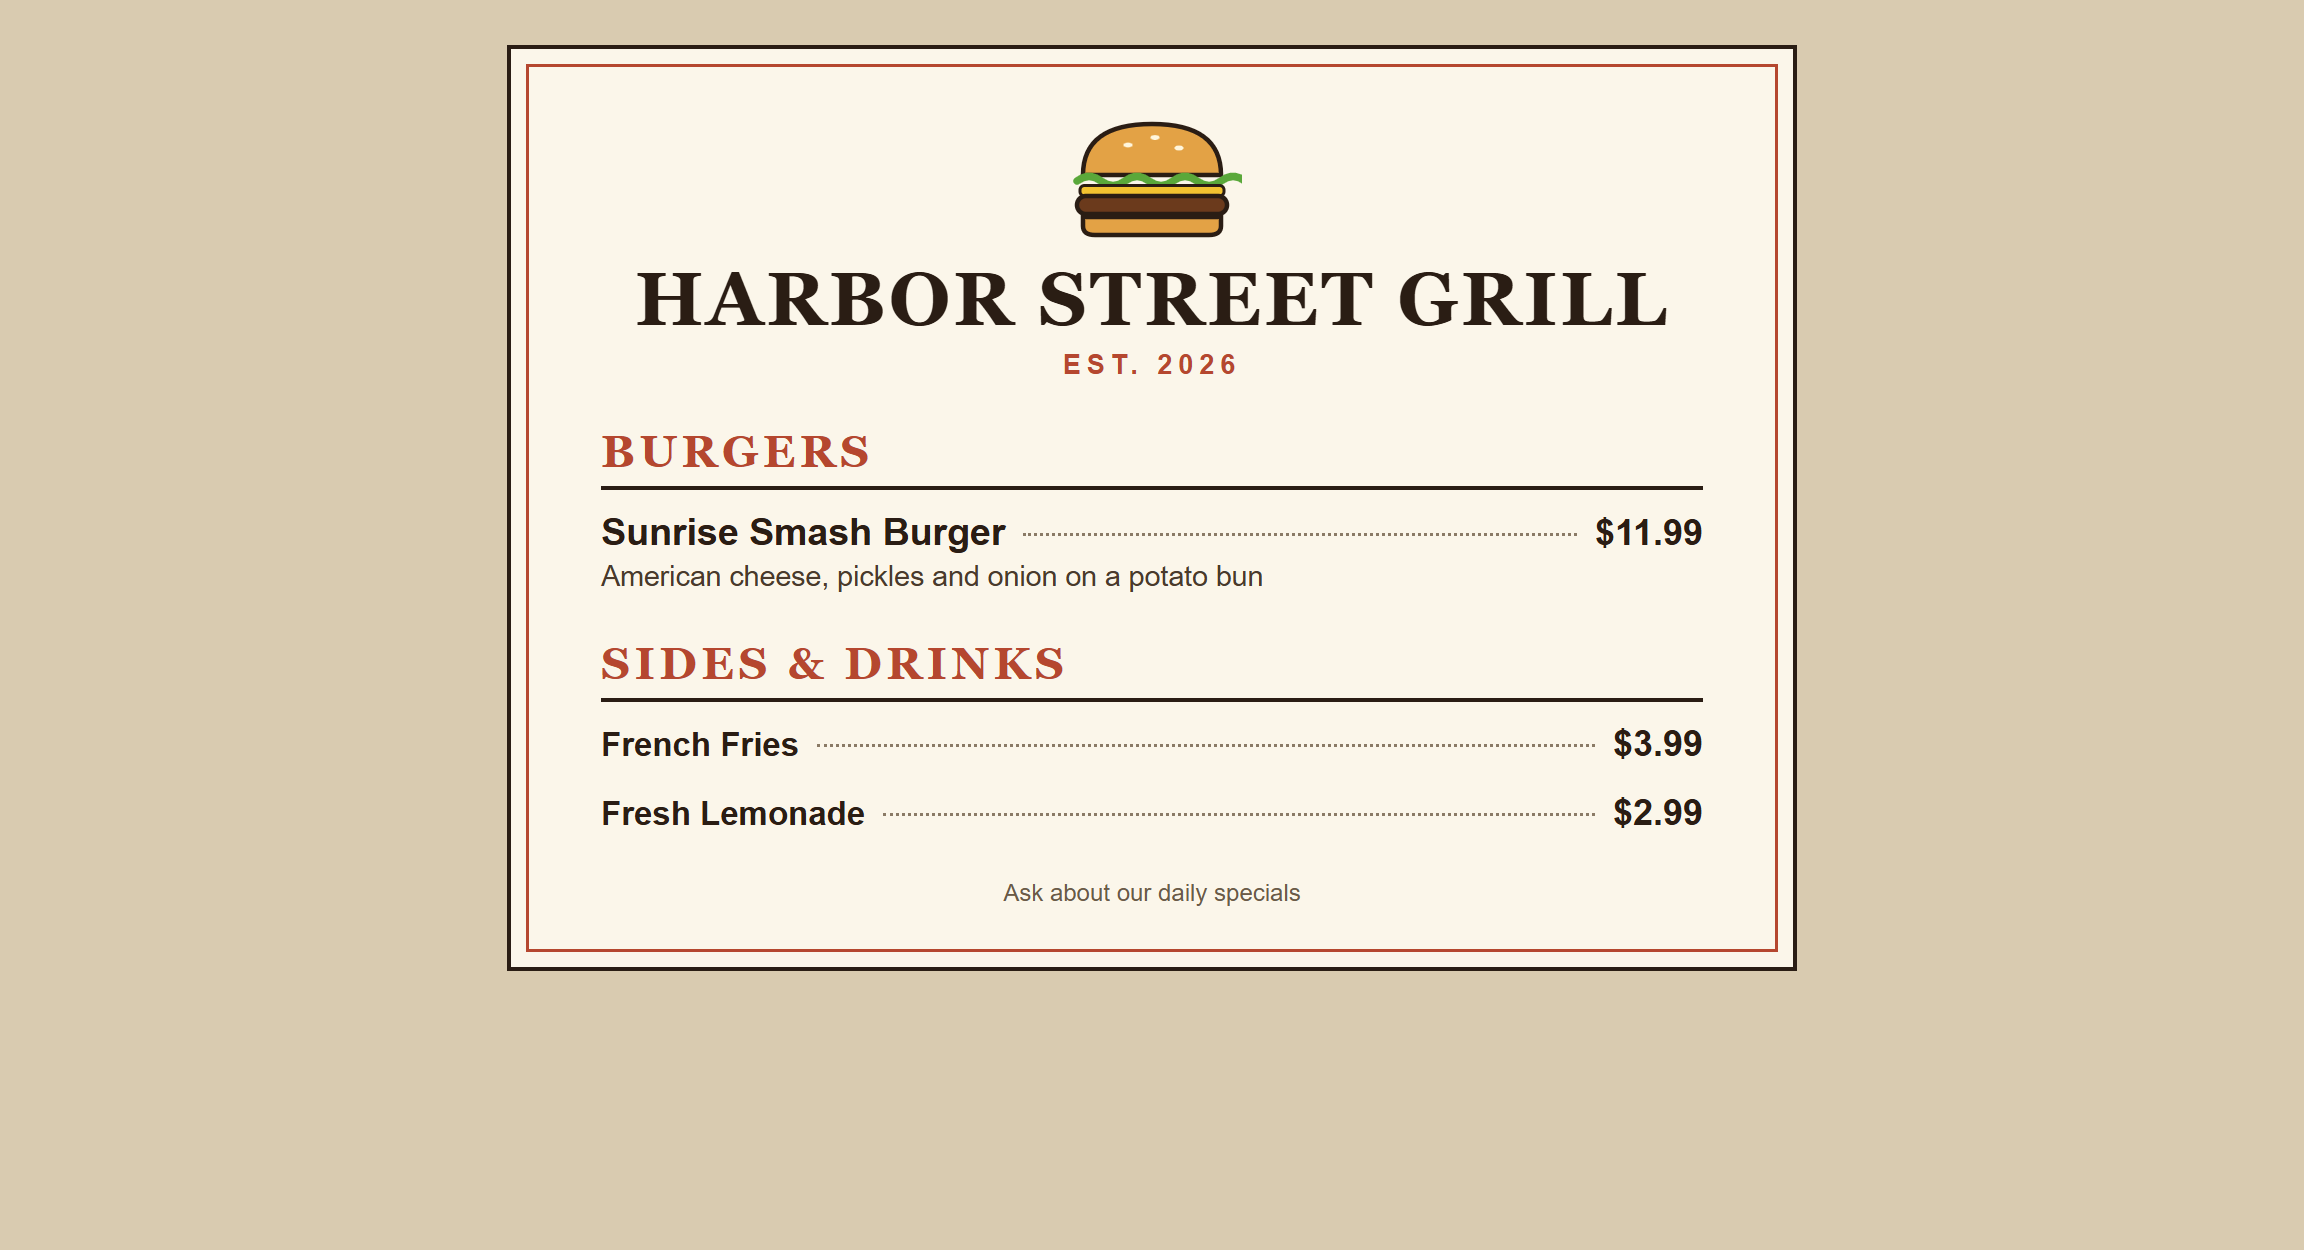
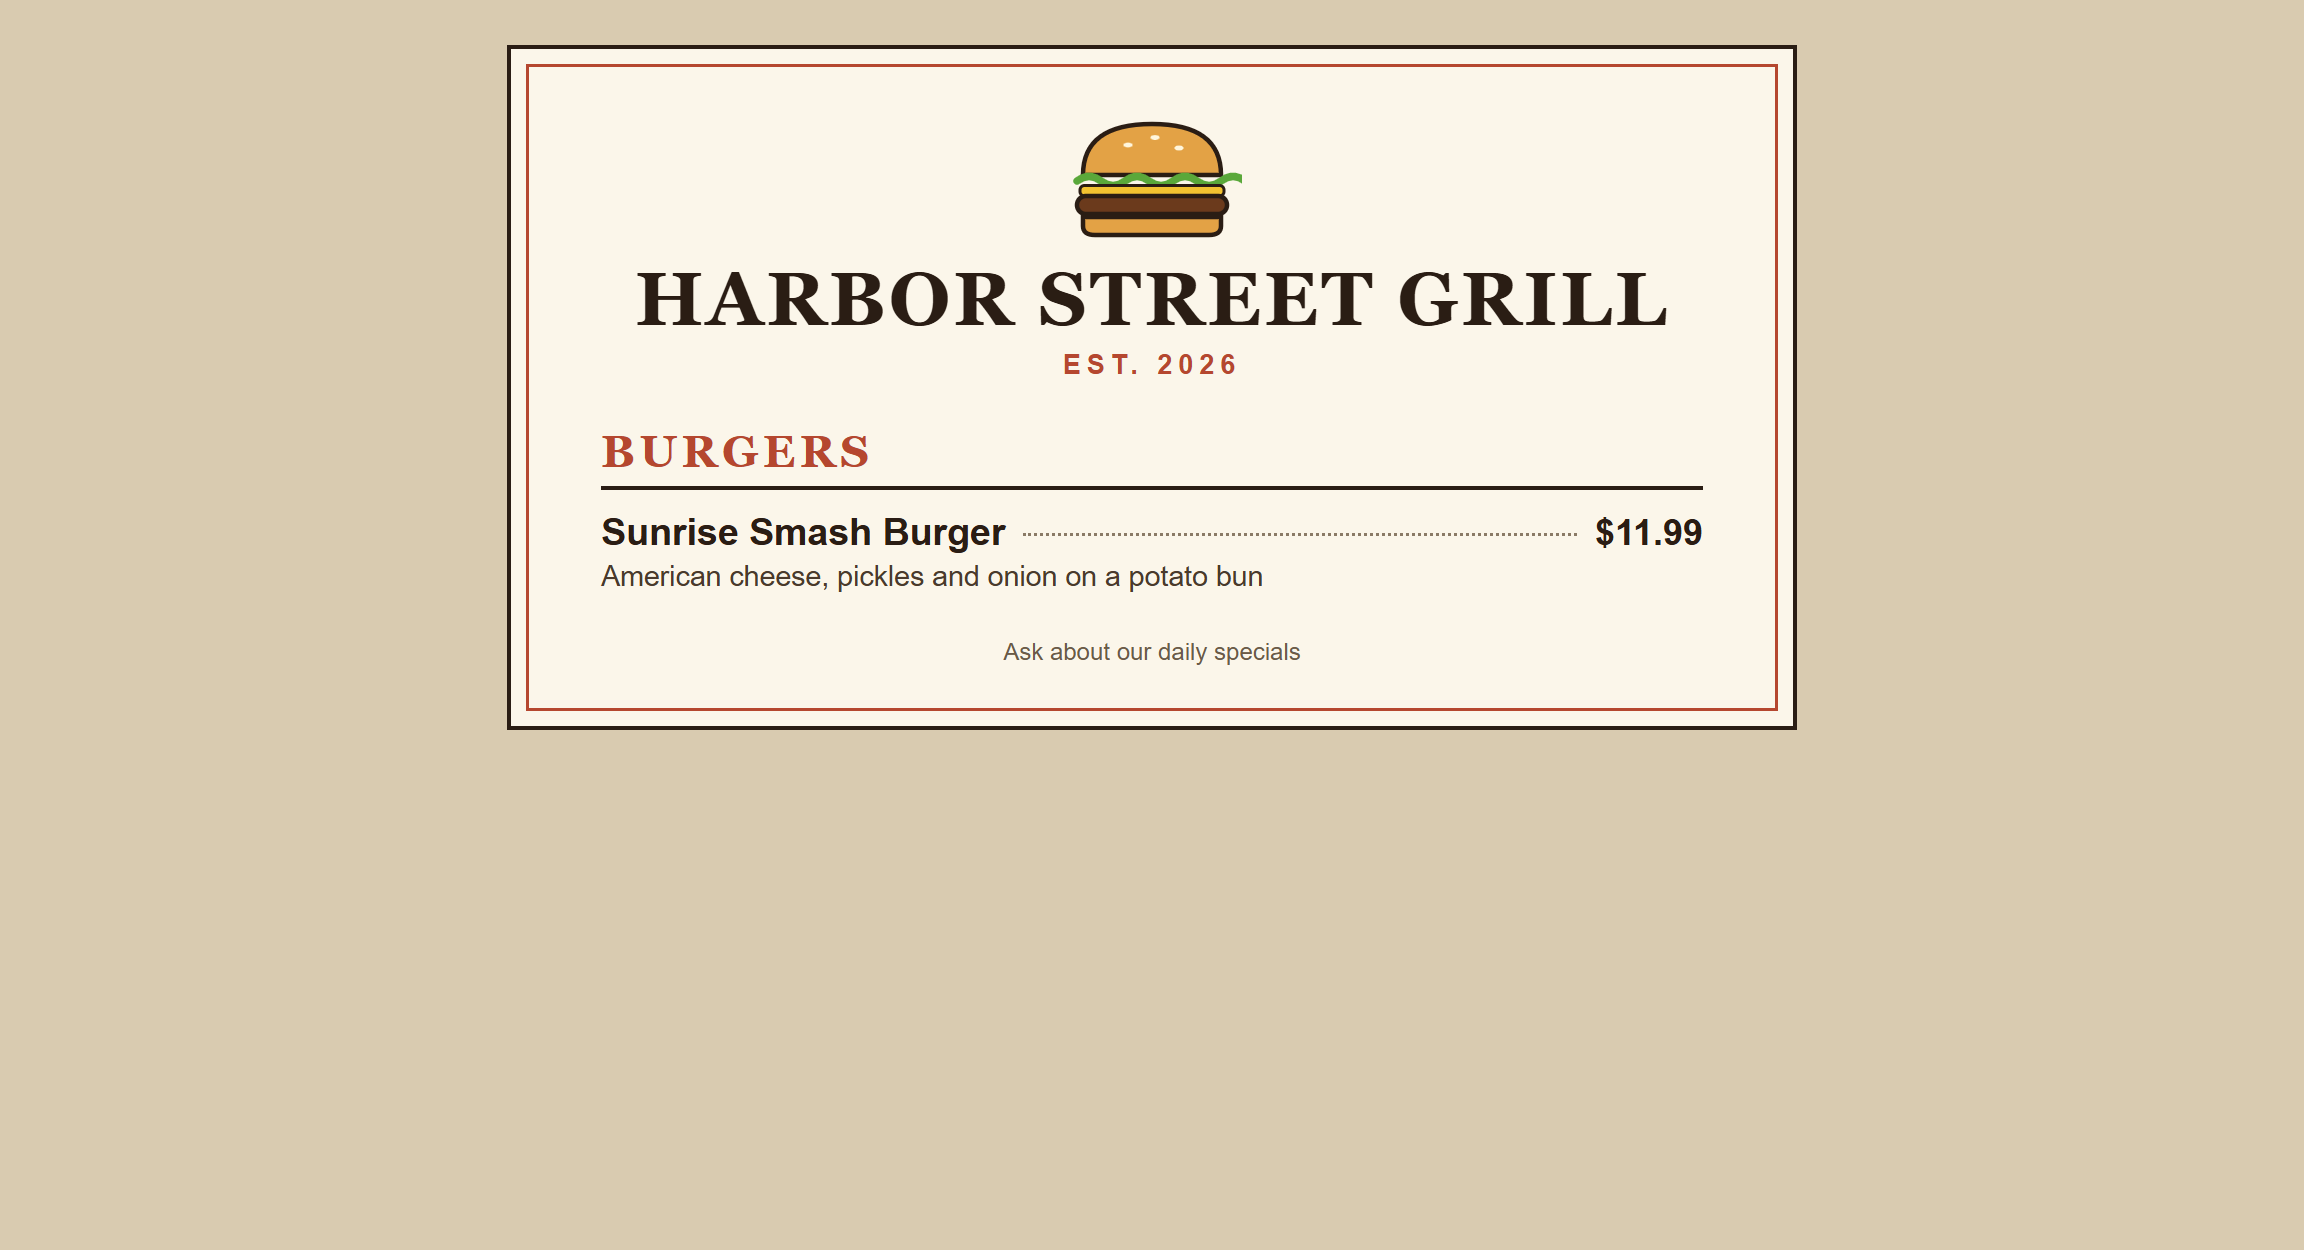
v0.6.4: Sample test menu is burgers only
Removed fries and lemonade; re-rendered sample-menu.png and re-verified
the import (Sunrise Smash Burger, 5 steps).

Claude-Session: https://claude.ai/code/session_01DVHYmSb3vvG1RPxeFAjxJw

Changed region(s): [[0.2188, 0.4992, 0.7812, 0.78]]

diff --git a/test-assets/sample-menu.html b/test-assets/sample-menu.html
@@ -50,10 +50,6 @@
   <div class="item"><div class="row"><span class="name">Sunrise Smash Burger</span><span class="dots"></span><span class="price">$11.99</span></div>
     <p class="desc">American cheese, pickles and onion on a potato bun</p></div>
 
-  <h2>SIDES &amp; DRINKS</h2>
-  <div class="item small"><div class="row"><span class="name">French Fries</span><span class="dots"></span><span class="price">$3.99</span></div></div>
-  <div class="item small"><div class="row"><span class="name">Fresh Lemonade</span><span class="dots"></span><span class="price">$2.99</span></div></div>
-
   <footer>Ask about our daily specials</footer>
 </div>
 </body>

diff --git a/README.md b/README.md
@@ -52,8 +52,8 @@ The manual was used as a guideline. What changed and why:
 Menu items, ingredients, art and ticket changes all live in `js/data.js` / `js/art.js`, so swapping items is a data edit, not a code change.
 
 ## Test assets
-`test-assets/sample-menu.png` (made from `sample-menu.html`): a fictional menu with one burger plus a side and a drink.
-Import it on the owner page. Expected: **Sunrise Smash Burger** added under *Burgers* as Potato Bun > Beef Patty > American Cheese > Red Onion Ring > Dill Pickle Chip ×3; French Fries and Fresh Lemonade skipped (not a burger or sandwich).
+`test-assets/sample-menu.png` (made from `sample-menu.html`): a fictional menu with a single burger.
+Import it on the owner page. Expected: **Sunrise Smash Burger** added under *Burgers* as Potato Bun > Beef Patty > American Cheese > Red Onion Ring > Dill Pickle Chip ×3.
 
 ## Known limits / next steps
 - Scoring is positional: one missing layer shifts the rest and costs more than it should. Fine as a placeholder.
@@ -79,4 +79,5 @@ Every change is saved as a git commit, and each milestone gets a tag (`v0.3-chef
 | `v0.6-recipe-rescue` | Renamed to Recipe Rescue (logo, tab icon/title, app bar, footer). Quiz pass earns a printable certificate; owner sees Certified · Ready to work; flashcard decks tracked. |
 | `v0.6.1-cert-stays` | Certificates stay valid when new menu items are added (no re-certify). |
 | `v0.6.2-pass-mark` | Owner pass mark can be any value 0–100% (was locked to 50–100). |
-| `v0.6.3-ocr-fix` | Photo import reads menus with dotted leaders (sparse-text OCR mode). Adds `test-assets/sample-menu.png` (Harbor Street Grill: 1 burger + fries + lemonade). |
+| `v0.6.3-ocr-fix` | Photo import reads menus with dotted leaders (sparse-text OCR mode). Adds `test-assets/sample-menu.png` (Harbor Street Grill). |
+| `v0.6.4-burger-menu` | Sample menu image is burgers only (one burger, no sides or drinks). |
